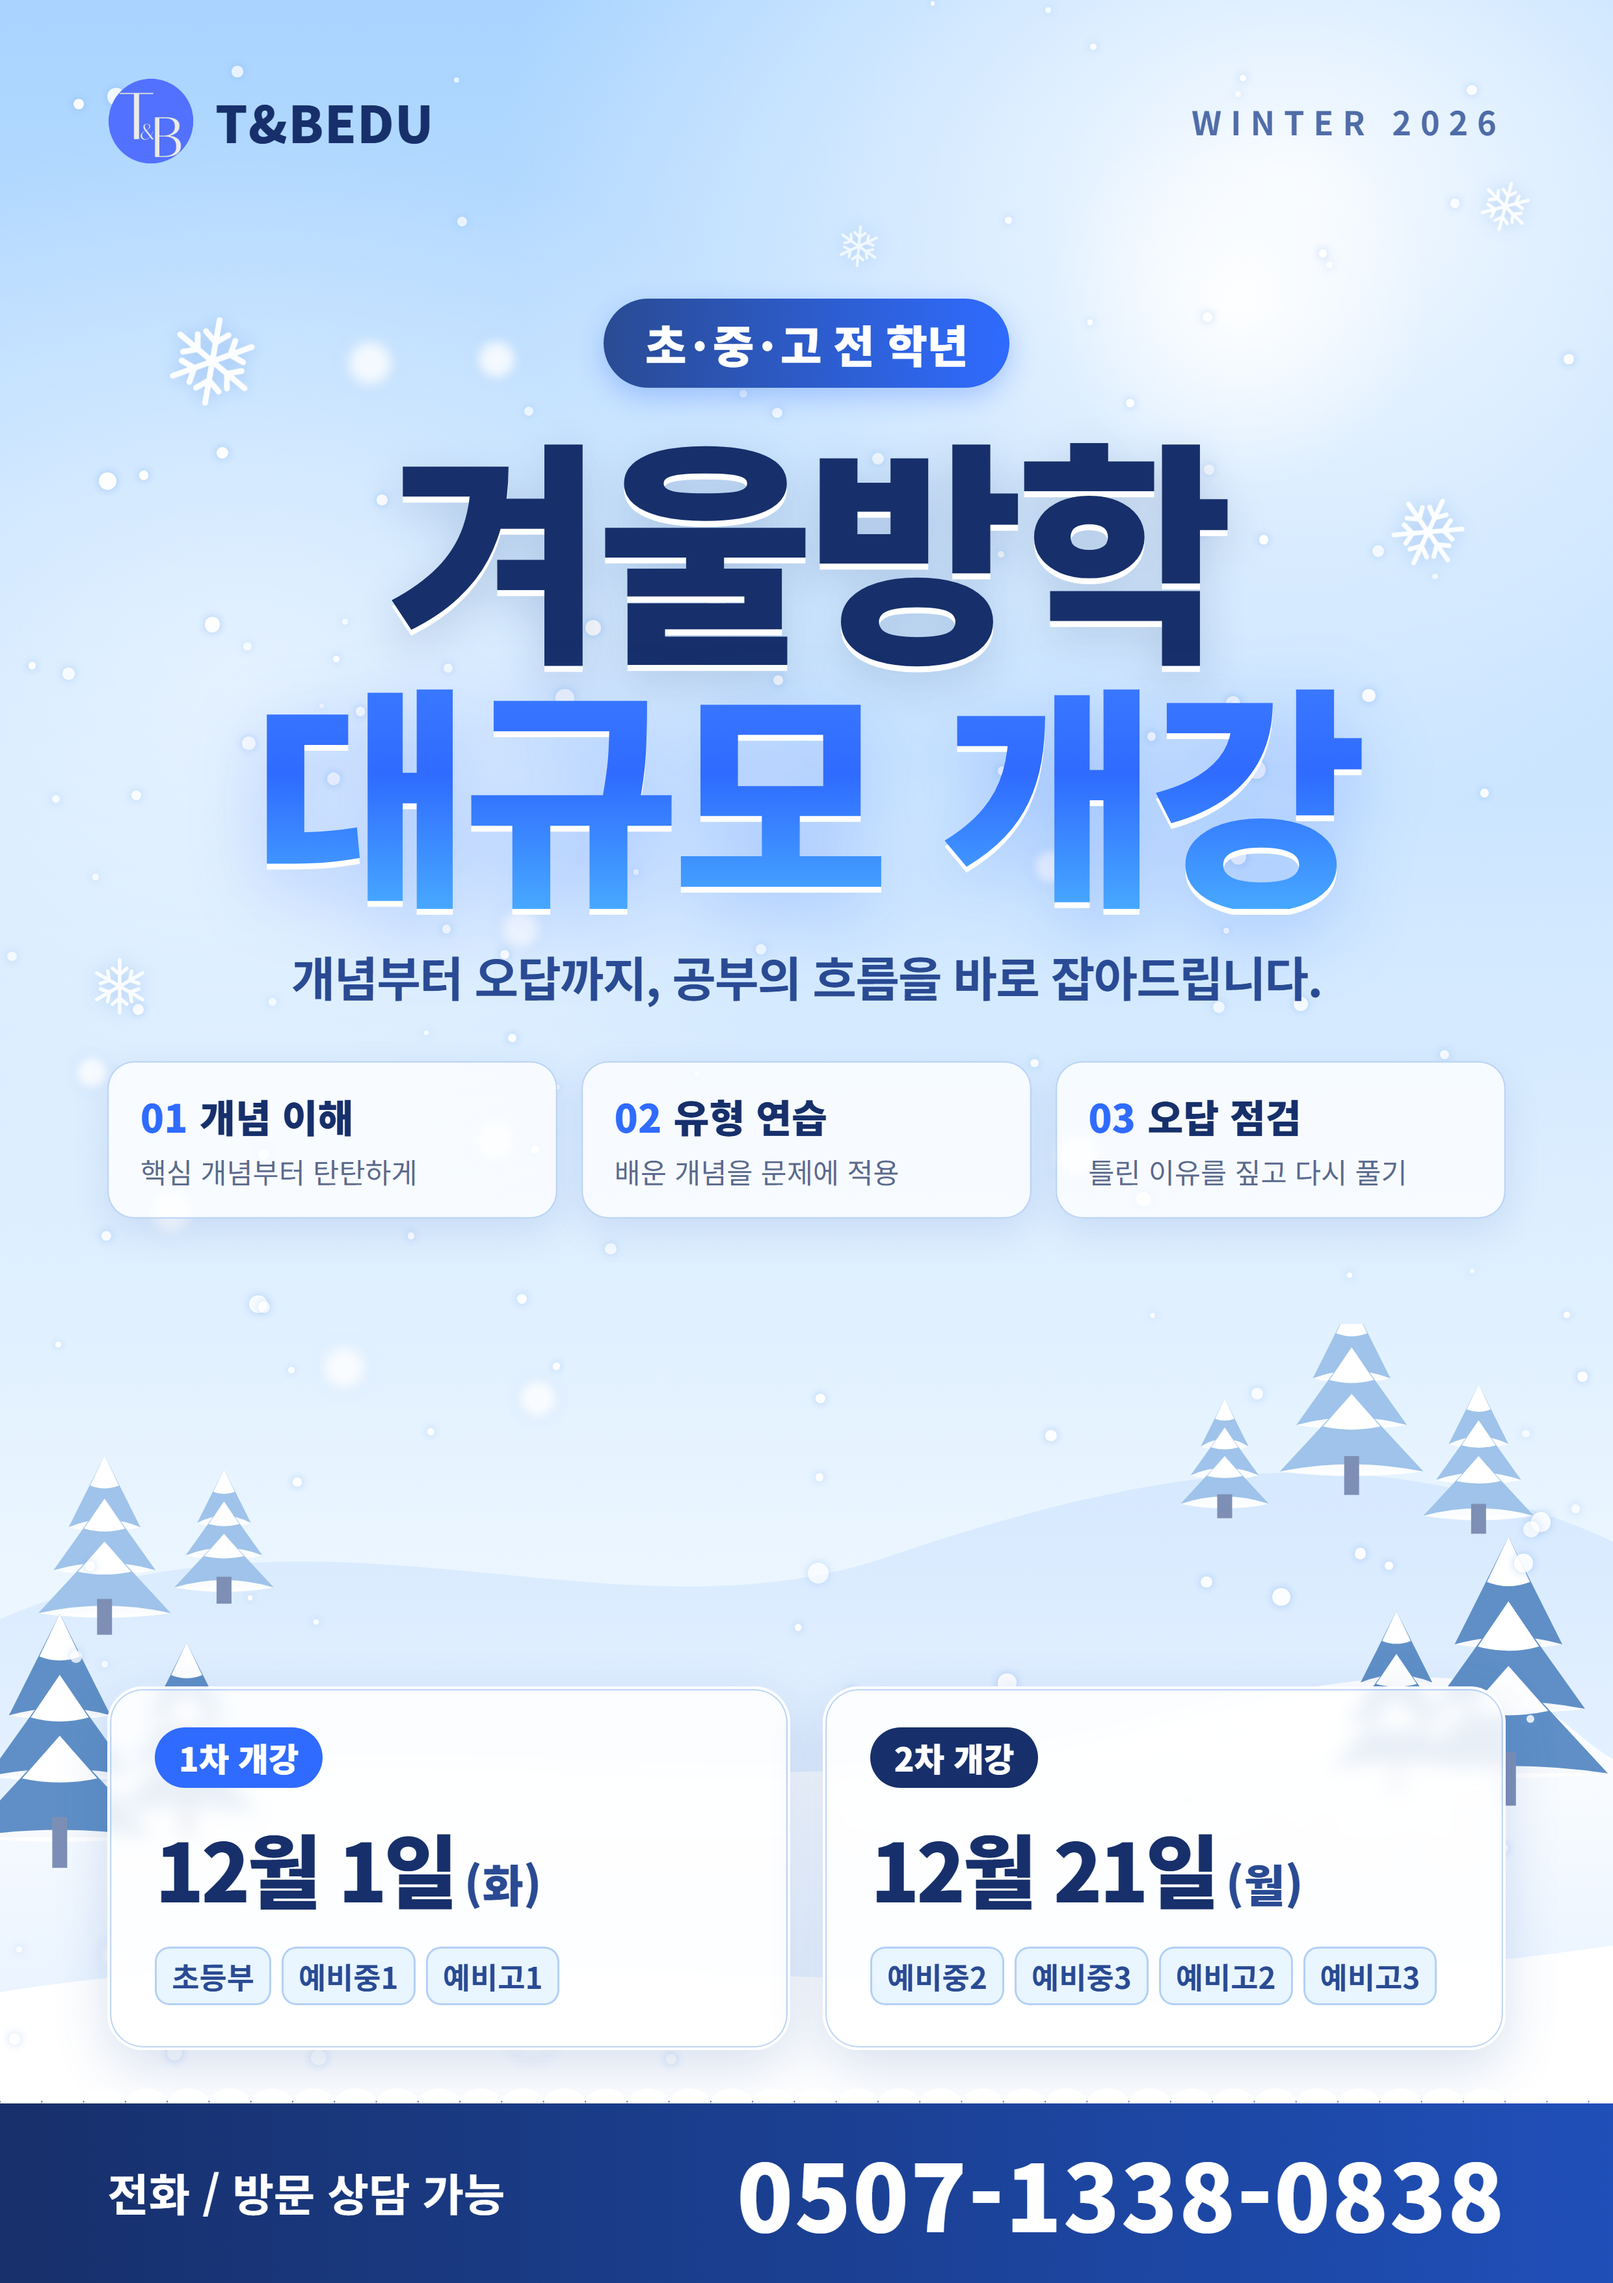
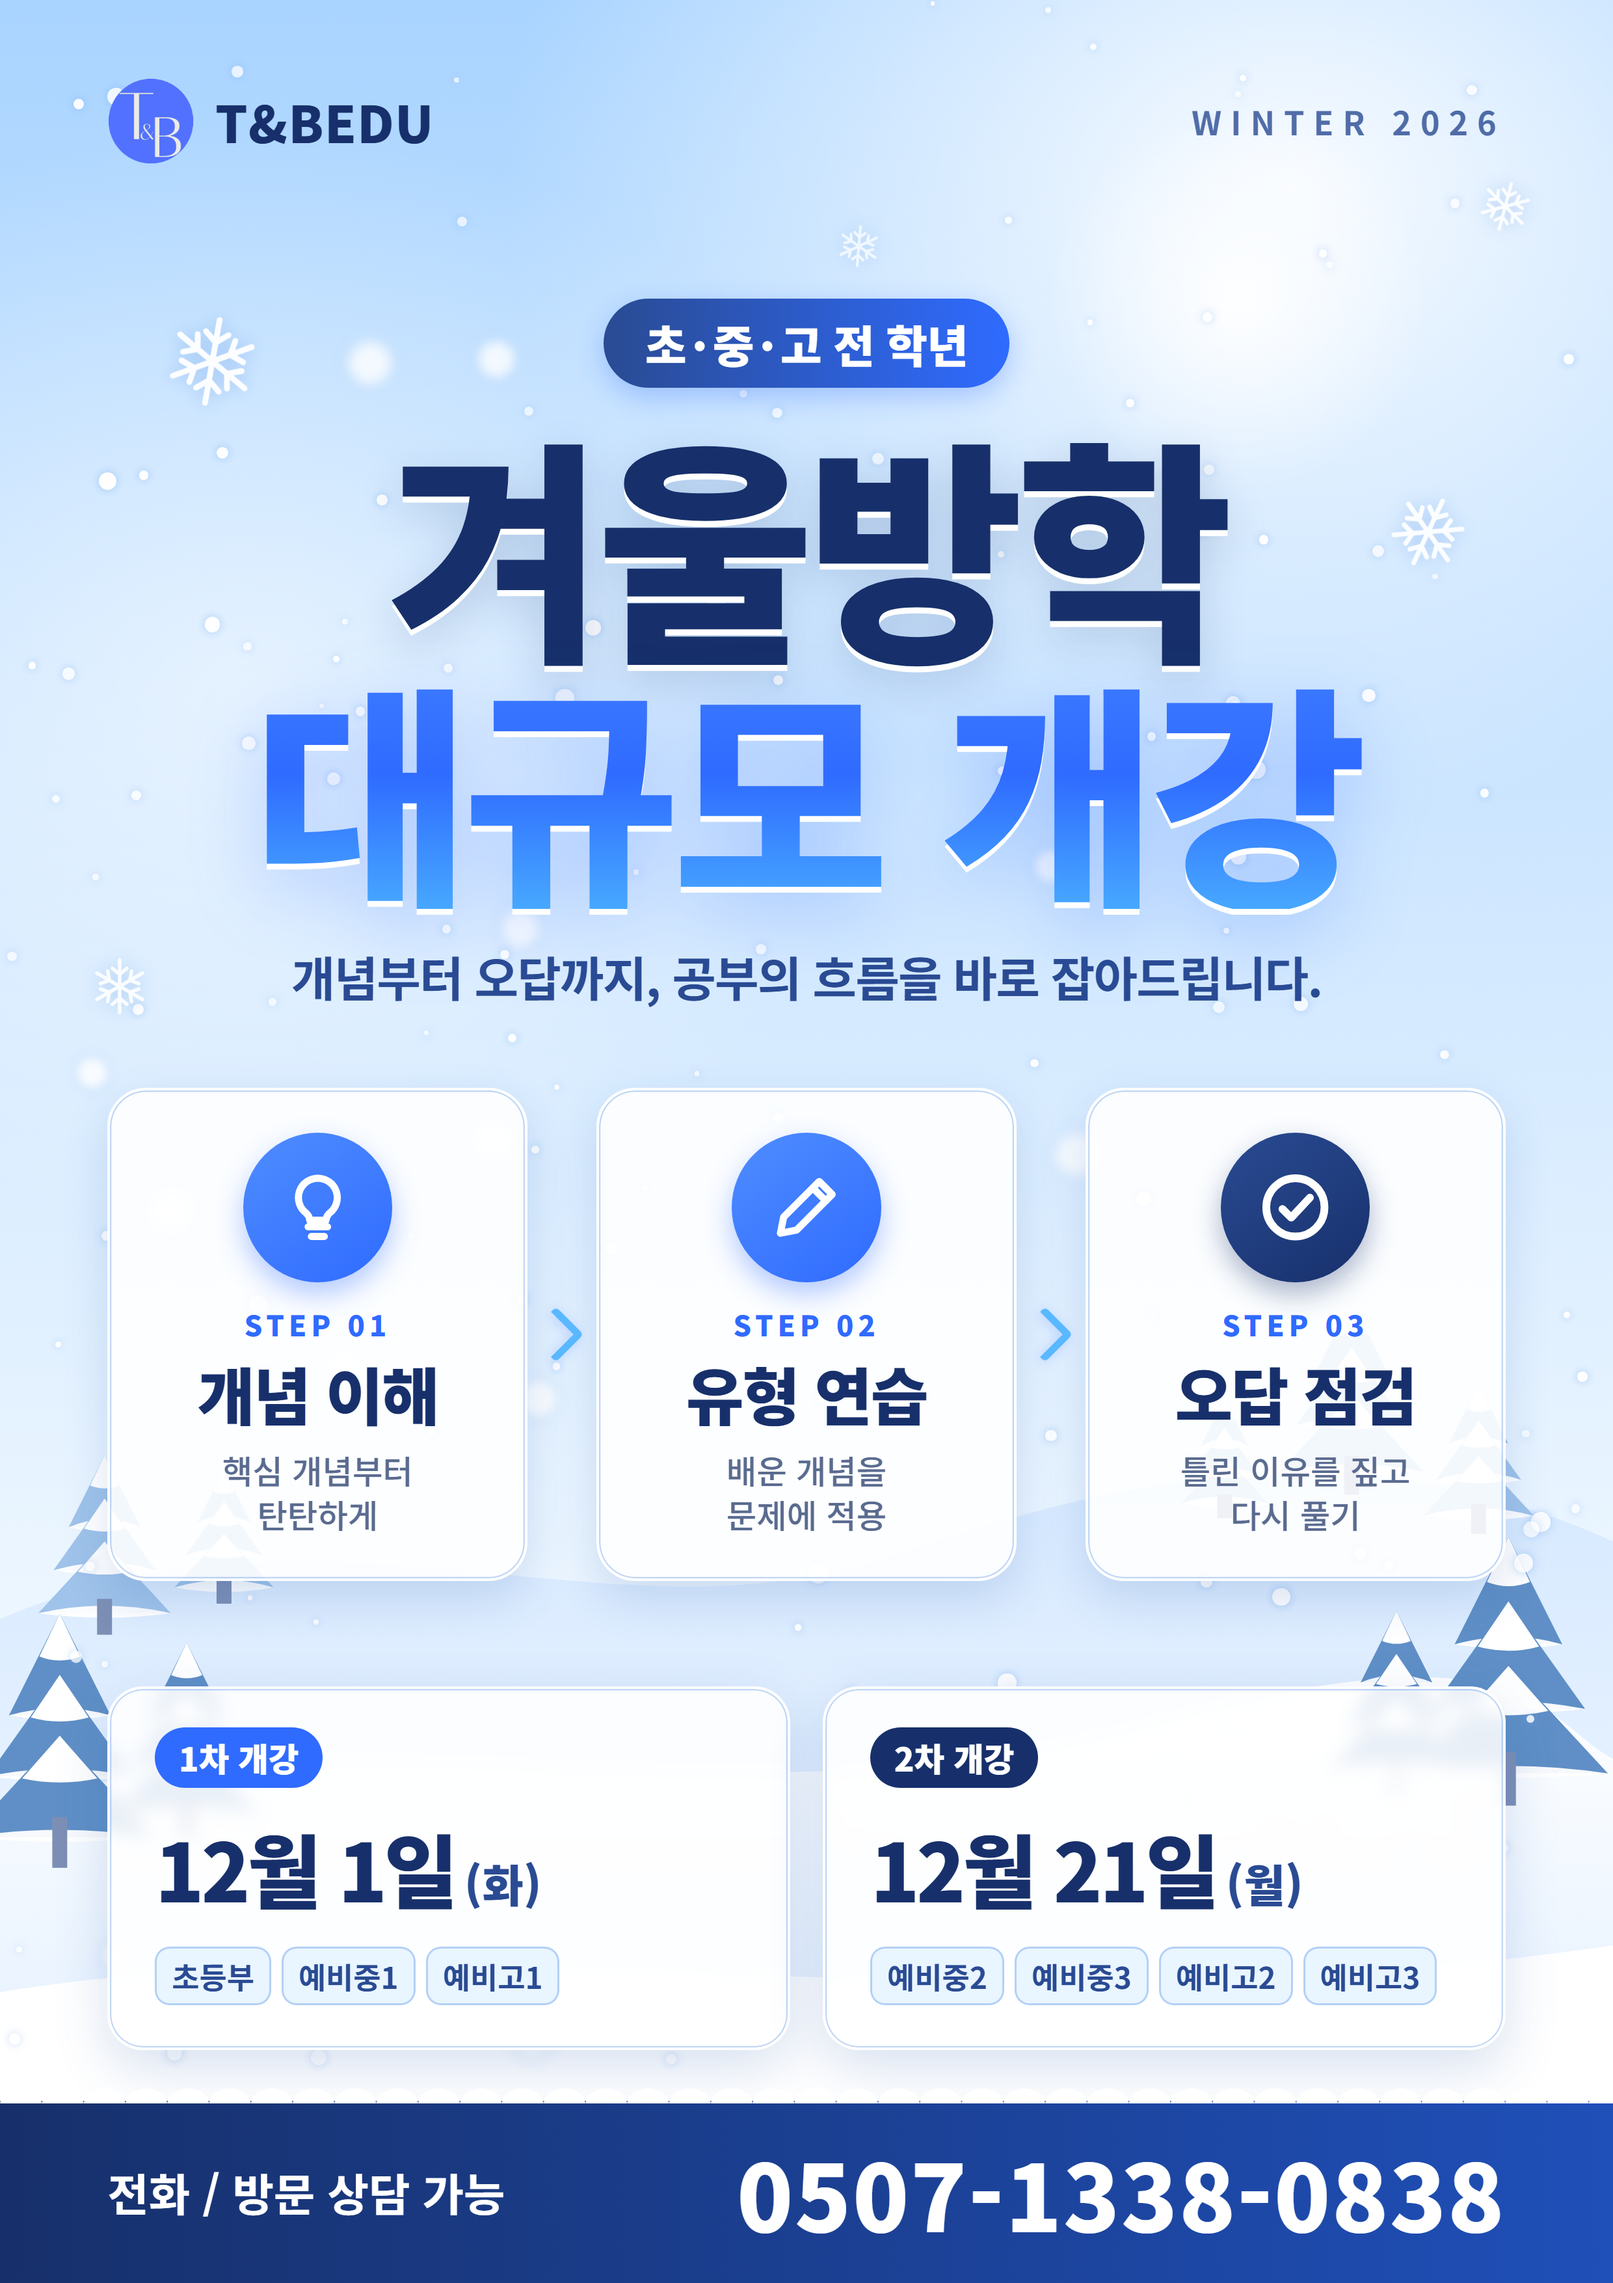
feat(학원홍보) 겨울 포스터 강좌 특징을 STEP 아이콘 카드로 키워 빈 공간 채움

Changed region(s): [[0.0621, 0.4659, 0.9315, 0.7144], [0.0621, 0.6523, 0.0931, 0.6834]]

diff --git a/학원홍보/posters/2026-12-겨울방학-개강/poster.html b/학원홍보/posters/2026-12-겨울방학-개강/poster.html
@@ -1,4 +1,4 @@
-<!DOCTYPE html>
+<!DOCTYPE html>
 <html lang="ko">
 <head>
 <meta charset="utf-8">
@@ -68,16 +68,20 @@
   .card .who span{font-weight:700;font-size:20px;color:var(--navy-2);background:var(--ice);
     border:1.5px solid var(--line);padding:4px 10px;border-radius:10px}
 
-  /* 강좌 특징 (A4에서만) */
-  .feat{display:grid;margin-bottom:0;margin-top:34px;grid-template-columns:repeat(3,1fr);gap:16px}
-  body.insta .feat div{padding:14px 18px}
-  body.insta .feat b{font-size:24px}
-  body.insta .feat small{font-size:17px}
-  .feat div{background:rgba(255,255,255,.78);border-radius:18px;padding:18px 22px;
-    box-shadow:0 8px 24px rgba(40,90,170,.12),inset 0 0 0 1px var(--line)}
-  .feat b{display:block;font-size:26px;font-weight:800;color:var(--navy)}
-  .feat b i{font-style:normal;color:var(--blue);margin-right:8px}
-  .feat small{display:block;margin-top:4px;font-size:19px;color:var(--ink-dim)}
+  /* 강좌 특징: 아이콘 카드 3개 + 단계 화살표 (크기는 --feat-* 로 인스타/A4 조절) */
+  .feat{display:grid;grid-template-columns:1fr auto 1fr auto 1fr;align-items:center;gap:10px;margin-top:var(--feat-top,30px)}
+  .step{height:var(--feat-h,252px);display:flex;flex-direction:column;align-items:center;justify-content:center;text-align:center;
+    background:rgba(255,255,255,.88);border:2px solid #fff;border-radius:26px;padding:0 14px;
+    box-shadow:0 12px 30px rgba(40,90,170,.16),inset 0 0 0 1px var(--line)}
+  .step .ico{width:var(--ico,64px);height:var(--ico,64px);border-radius:50%;display:grid;place-items:center;
+    background:linear-gradient(145deg,#4f8dff,#2f6bff);box-shadow:0 8px 18px rgba(47,107,255,.35)}
+  .step:nth-child(5) .ico{background:linear-gradient(145deg,#2a4b93,#17306b);box-shadow:0 8px 18px rgba(23,48,107,.35)}
+  .step .ico svg{width:52%;height:52%}
+  .step .n{margin-top:14px;font-size:var(--n-size,17px);font-weight:800;letter-spacing:3px;color:var(--blue)}
+  .step b{display:block;margin-top:2px;font-size:var(--t-size,33px);font-weight:900;letter-spacing:-1px;color:var(--navy)}
+  .step small{display:block;margin-top:6px;font-size:var(--d-size,19px);font-weight:500;color:var(--ink-dim);line-height:1.35}
+  .arrow{width:26px;height:26px;border-top:5px solid var(--sky);border-right:5px solid var(--sky);transform:rotate(45deg);
+    margin:0 4px 0 -4px;border-radius:3px;filter:drop-shadow(0 2px 4px rgba(47,107,255,.25))}
 
   footer{position:absolute;left:0;right:0;bottom:0;z-index:5;height:122px;display:flex;align-items:center;justify-content:space-between;
     padding:0 72px;color:#fff;background:linear-gradient(90deg,var(--navy),#1f4fb8)}
@@ -107,9 +111,20 @@
   </section>
 
   <section class="feat">
-    <div><b><i>01</i>개념 이해</b><small>핵심 개념부터 탄탄하게</small></div>
-    <div><b><i>02</i>유형 연습</b><small>배운 개념을 문제에 적용</small></div>
-    <div><b><i>03</i>오답 점검</b><small>틀린 이유를 짚고 다시 풀기</small></div>
+    <div class="step">
+      <span class="ico"><svg viewBox="0 0 24 24" fill="none" stroke="#fff" stroke-width="2.2" stroke-linecap="round" stroke-linejoin="round"><path d="M9 18h6M10 21h4"/><path d="M12 3a6 6 0 0 0-3.6 10.8c.6.5 1 1.2 1.1 2.2h5c.1-1 .5-1.7 1.1-2.2A6 6 0 0 0 12 3z"/></svg></span>
+      <span class="n">STEP 01</span><b>개념 이해</b><small>핵심 개념부터<br>탄탄하게</small>
+    </div>
+    <i class="arrow"></i>
+    <div class="step">
+      <span class="ico"><svg viewBox="0 0 24 24" fill="none" stroke="#fff" stroke-width="2.2" stroke-linecap="round" stroke-linejoin="round"><path d="M4 20l1-5L16 4l4 4L9 19z"/><path d="M14 6l4 4"/></svg></span>
+      <span class="n">STEP 02</span><b>유형 연습</b><small>배운 개념을<br>문제에 적용</small>
+    </div>
+    <i class="arrow"></i>
+    <div class="step">
+      <span class="ico"><svg viewBox="0 0 24 24" fill="none" stroke="#fff" stroke-width="2.4" stroke-linecap="round" stroke-linejoin="round"><circle cx="12" cy="12" r="9"/><path d="M8 12.5l2.7 2.7L16.5 9"/></svg></span>
+      <span class="n">STEP 03</span><b>오답 점검</b><small>틀린 이유를 짚고<br>다시 풀기</small>
+    </div>
   </section>
 
   <section class="sched">
@@ -139,6 +154,8 @@
   if (size === 'a4') {
     const r = document.documentElement.style;
     r.setProperty('--h-size','158px'); r.setProperty('--hero-top','90px'); r.setProperty('--land-h','520px');
+    r.setProperty('--feat-h','330px'); r.setProperty('--feat-top','52px'); r.setProperty('--ico','100px');
+    r.setProperty('--t-size','42px'); r.setProperty('--d-size','22px'); r.setProperty('--n-size','19px');
   }
 
   // 같은 결과가 매번 나오도록 고정 시드 난수
